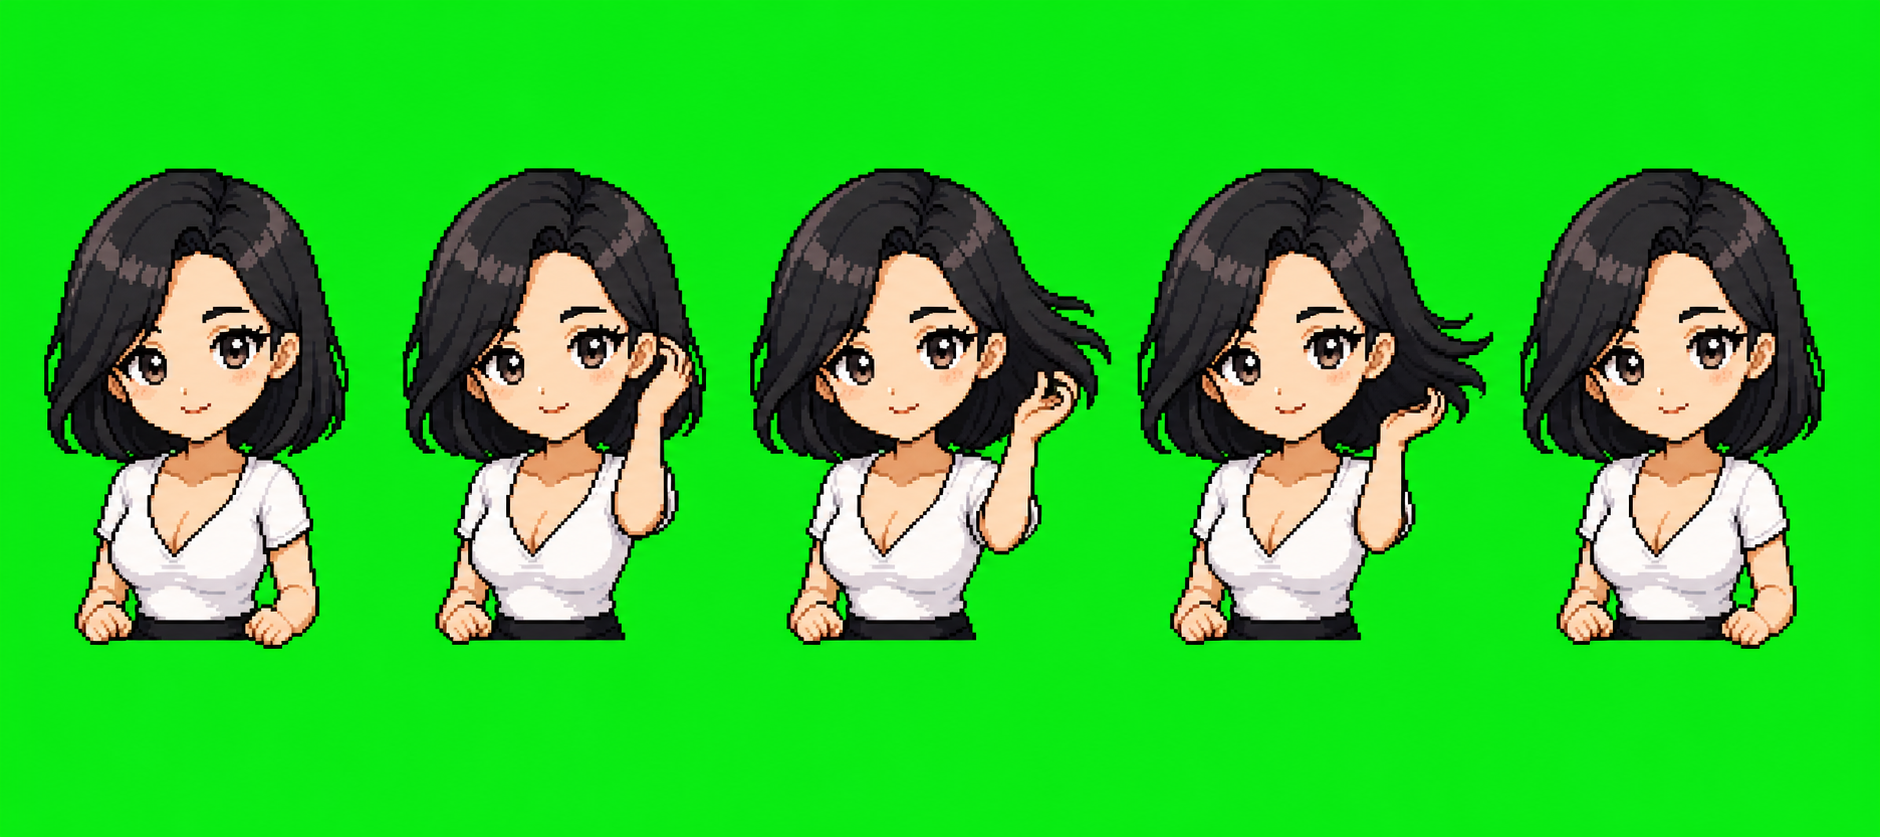
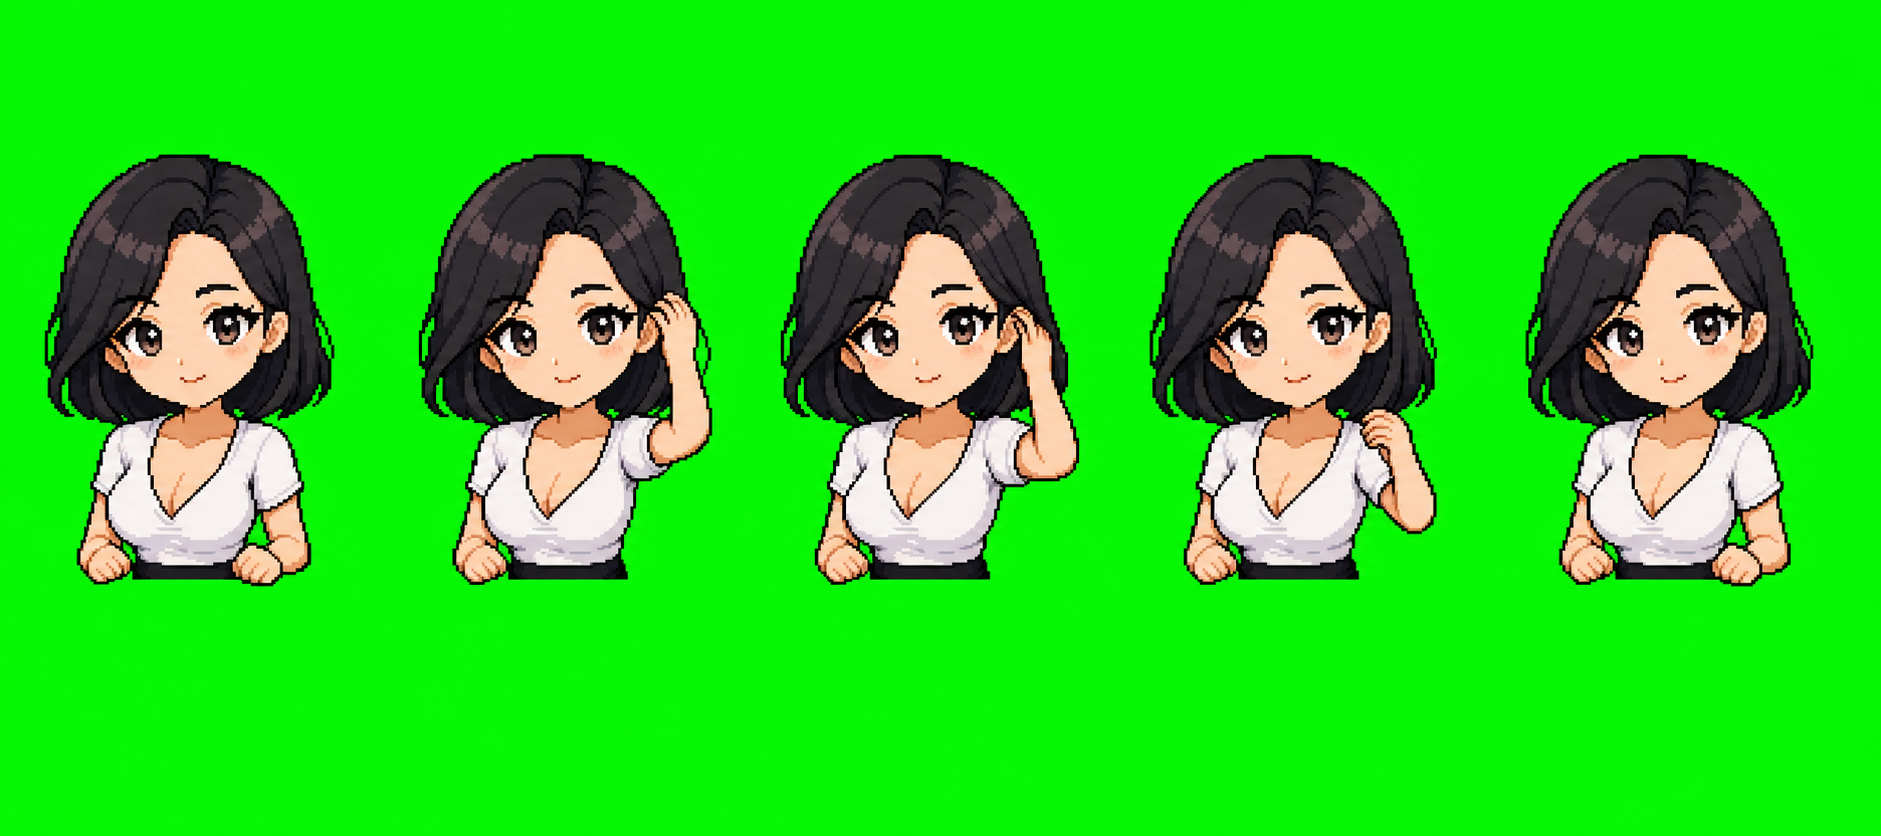
fix(pets): retarget Vera jumping to hair tuck

Changed region(s): [[0.216, 0.1866, 0.9872, 0.7775], [0.0, 0.1866, 0.1851, 0.7775]]

diff --git a/pet-runs/vera-clear/prompts/rows/jumping.md b/pet-runs/vera-clear/prompts/rows/jumping.md
@@ -15,7 +15,7 @@ Style contract: Codex digital pet sprite style: pixel-art-adjacent low-resolutio
 
 Use this prompt as an authoritative sprite-production spec. Do not expand it into a polished illustration, painterly character image, anime key art, 3D render, vector mascot, glossy app icon, realistic animal portrait, or marketing artwork.
 
-Animation action: slightly smug pretty hair-flick pose, flipping the hair outward to show off the hair texture.
+Animation action: subtle mouseover hair-tidy gesture: one hand rises to the ear, gently sweeps the side hair behind the ear, then settles.
 
 Current canonical character lock:
 - Preserve the first approved base's slightly longer soft oval face, warm gray-brown eyes, tiny friendly smile, side-swept black bob, and broad simple hair highlights.
@@ -26,18 +26,19 @@ Current canonical character lock:
 
 User motion directive:
 - No laptop in this row.
-- Replace the old jump with a one-hand pretty/coy gesture: only the same one hand throughout the row reaches beside the ear/back hair and flicks the hair outward away from the head.
-- Do not tuck the hair neatly behind the ear. The motion is an outward fluttering hair toss, as if showing off the hair texture, with the hair tips fanning outward briefly.
+- Replace the old jump with a one-hand hair-tidy gesture: only the same one hand throughout the row reaches beside the ear/back hair, lightly gathers the side hair, and sweeps it behind the ear.
+- Do not flick the hair outward, fan the hair tips away from the head, or scale the whole character down to make room for motion. The hair should stay close to the idle silhouette.
 - Keep the other hand down or near the body for the entire row. Do not switch hands between frames and do not use both hands.
-- Show a small confident/cute head tilt, a slightly smug pretty-face expression, and light outward hair movement. Keep the body mostly bust-only and compact.
+- Show a small confident/cute head tilt, a tidy gentle expression, and light inward/behind-ear hair movement. Keep the body mostly bust-only and compact.
 - Do not make this a vertical jump, bounce, or airborne motion.
 - Preserve the base outfit proportions: white V-neck shirt ends near the waist, then a thin readable dark/black waistband or pants-start shape appears at the bottom of the bust. Avoid an all-white torso below the chest.
 - Keep the torso vertically shorter than the current/previous jumping version; the body should not feel elongated compared with the head.
+- Match the current idle/waving silhouette width. In each 192 x 208 source cell, keep the visible character bbox roughly 130-136 px wide, centered near x=96. Do not create narrow 116 px settle frames or wide 150 px hair-fan frames.
 
 State-specific requirements:
-- Across 5 frames: the same hand starts low, rises to the ear/back hair, flicks the hair outward away from the head, holds a slightly smug show-off pose briefly with hair tips fanned outward, then settles.
-- The hair-flick hand must stay on one consistent side of the character across all frames.
-- Use outward hair movement and hand position to sell the action; do not use floor shadows, dust, landing marks, bounce marks, or detached effects.
+- Across 5 frames: the same hand starts low, rises beside the ear, fingers touch the side hair, sweeps/tucks the hair behind the ear, then settles back toward the idle pose.
+- The hair-tidy hand must stay on one consistent side of the character across all frames.
+- Use hand position and a small behind-ear hair shift to sell the action; do not use floor shadows, dust, landing marks, bounce marks, outward hair fans, or detached effects.
 - Keep the pose tasteful and non-explicit.
 - In every frame, keep a consistent small dark/black waistline or lower-torso hint visible below the white shirt. The black part should be small and not become visible legs.
 

diff --git a/apps/pet-overlay/PATCH_NOTES.md b/apps/pet-overlay/PATCH_NOTES.md
@@ -1,5 +1,24 @@
 # Patch Notes
 
+## 2026-05-22 - Vera Clear Gesture Rows
+
+- Regenerated the Vera Clear Spinner Candidate `idle`, `jumping`, and `waving`
+  rows from the original single canonical Vera Clear reference and the saved
+  row prompts.
+- Replaced the failed partial-composite jumping attempt with a full regenerated
+  gesture row so the arm no longer appears clipped.
+- Kept `waving` as the original blown-kiss action, not a hand wave.
+- Corrected the blown-kiss timing so the wink happens when the hand extends
+  forward, using Vera's left eye.
+- Retargeted the `jumping` action away from a width-changing hair flick toward
+  a subtler behind-ear hair-tidy gesture that can stay closer to the idle
+  silhouette.
+
+Validation:
+
+- `validate_atlas.py pets/vera-clear-spinner-candidate/spritesheet.webp`
+- `npm run validate:pets`
+
 ## 2026-05-19 - Korean Language Support
 
 - Added a `Language` setting with `System`, `English`, and `Korean` options.
